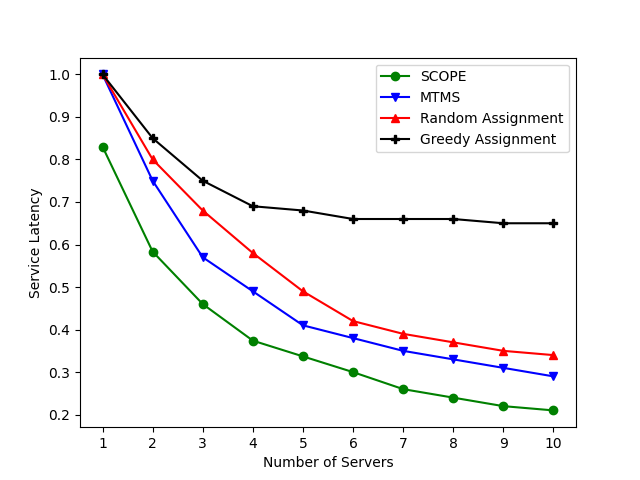
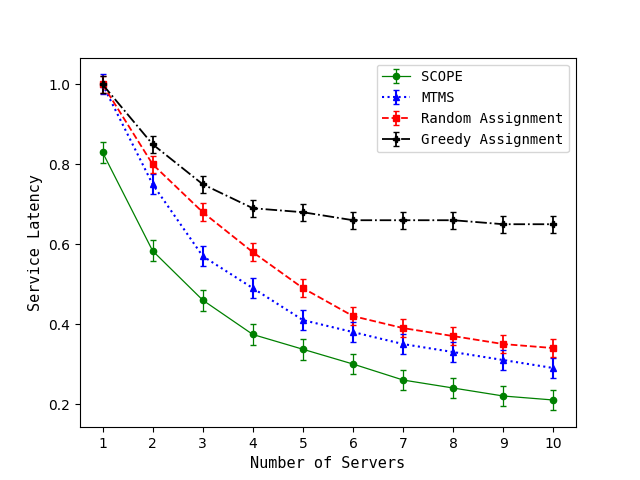
prepareDataSet(s) function added

diff --git a/dummygraph.py b/dummygraph.py
@@ -2,6 +2,30 @@ import matplotlib.pyplot as plt
 import numpy as np
 from matplotlib import font_manager
 
+x1 = []
+y1 = []
+y2 = []
+y3 = []
+y4 = []
+
+
+def prepareDataSet(s):
+    for line in open(s, 'r'):
+        lines = [i for i in line.split()]
+        x1.append(lines[0])
+        y1.append(float(lines[1]))
+        y2.append(float(lines[2]))
+        y3.append(float(lines[3]))
+        y4.append(float(lines[4]))
+
+
+def clearDataSet():
+    x1.clear()
+    y1.clear()
+    y2.clear()
+    y3.clear()
+    y4.clear()
+
 
 def subtaskVsLatency():
     x1 = []
@@ -114,47 +138,29 @@ def subtaskVsUtilCost():
 
 
 def serverVsLatency():
-    x1 = []
-    y1 = []
-    y2 = []
-    y3 = []
-    y4 = []
+    prepareDataSet('Data/serverlatency.txt')
 
-    for line in open('Data/serverlatency.txt', 'r'):
-        lines = [i for i in line.split()]
-        x1.append(lines[0])
-        y1.append(float(lines[1]))
-        y2.append(float(lines[2]))
-        y3.append(float(lines[3]))
-        y4.append(float(lines[4]))
+    plt.xlabel('Number of Servers', fontsize=11, fontname='monospace')
+    plt.ylabel('Service Latency', fontsize=11, fontname='monospace')
 
-    plt.xlabel('Number of Servers')
-    plt.ylabel('Service Latency')
+    plt.errorbar(x1, y4, color='g', label='SCOPE', yerr=0.026, marker='o', capsize=2, linestyle='solid', linewidth=0.9,
+                 markersize=4.5, fillstyle='full')
+    plt.errorbar(x1, y1, color='b', label='MTMS', yerr=0.025, marker='^', capsize=2, linestyle='dotted', linewidth=1.5,
+                 markersize=4.7, fillstyle='full')
+    plt.errorbar(x1, y2, color='r', label='Random Assignment', yerr=0.022, marker='s', capsize=2, linestyle='dashed',
+                 linewidth=1.3, markersize=4.7, fillstyle='full')
+    plt.errorbar(x1, y3, color='k', label='Greedy Assignment', yerr=0.021, marker='P', capsize=2, linestyle='dashdot',
+                 linewidth=1.3, markersize=4.7, fillstyle='full')
 
-    plt.plot(x1, y4, marker='o', c='g', label='SCOPE')
-    plt.plot(x1, y1, marker='v', c='b', label='MTMS')
-    plt.plot(x1, y2, marker='^', c='r', label='Random Assignment')
-    plt.plot(x1, y3, marker='P', c='k', label='Greedy Assignment')
-
-    plt.legend()
+    font = font_manager.FontProperties(family='monospace', weight='regular', style='normal', size=10)
+    plt.legend(prop=font)
     plt.savefig("Images/serverlatency.png")
     plt.show()
+    clearDataSet()
 
 
 def serverVsEnergy():
-    x1 = []
-    y1 = []
-    y2 = []
-    y3 = []
-    y4 = []
-
-    for line in open('Data/servervsenergy.txt', 'r'):
-        lines = [i for i in line.split()]
-        x1.append(lines[0])
-        y1.append(float(lines[1]))
-        y2.append(float(lines[2]))
-        y3.append(float(lines[3]))
-        y4.append(float(lines[4]))
+    prepareDataSet('Data/servervsenergy.txt')
 
     plt.xlabel('Number of Servers')
     plt.ylabel('Energy Consumption')
@@ -167,21 +173,11 @@ def serverVsEnergy():
     plt.legend()
     plt.savefig("Images/servervsenergy.png")
     plt.show()
+    clearDataSet()
 
 
 def serverVsUtilityPerUnitCost():
-    x1 = []
-    y1 = []
-    y2 = []
-    y3 = []
-    y4 = []
-    for line in open('Data/serverutilitypercost.txt', 'r'):
-        lines = [i for i in line.split()]
-        x1.append(lines[0])
-        y1.append(float(lines[1]))
-        y2.append(float(lines[2]))
-        y3.append(float(lines[3]))
-        y4.append(float(lines[4]))
+    prepareDataSet('Data/serverutilitypercost.txt')
 
     plt.xlabel('Number of Servers')
     plt.ylabel('Utility per Unit Cost')
@@ -194,22 +190,11 @@ def serverVsUtilityPerUnitCost():
     plt.legend()
     plt.savefig("Images/servervsutilcost")
     plt.show()
+    clearDataSet()
 
 
 def serverVsTaskDrop():
-    x1 = []
-    y1 = []
-    y2 = []
-    y3 = []
-    y4 = []
-
-    for line in open('Data/servervstaskdrop.txt', 'r'):
-        lines = [i for i in line.split()]
-        x1.append(lines[0])
-        y1.append(float(lines[1]))
-        y2.append(float(lines[2]))
-        y3.append(float(lines[3]))
-        y4.append(float(lines[4]))
+    prepareDataSet('Data/servervstaskdrop.txt')
 
     plt.xlabel('Number of Servers')
     plt.ylabel('Task Drop Rate')
@@ -222,21 +207,11 @@ def serverVsTaskDrop():
     plt.legend()
     plt.savefig("Images/servervstaskdrop.png")
     plt.show()
+    clearDataSet()
 
 
 def serverVsTaskDropBar():
-    x1 = []
-    y1 = []
-    y2 = []
-    y3 = []
-    y4 = []
-    for line in open('servervstaskdrop.txt', 'r'):
-        lines = [i for i in line.split()]
-        x1.append(lines[0])
-        y1.append(float(lines[1]))
-        y2.append(float(lines[2]))
-        y3.append(float(lines[3]))
-        y4.append(float(lines[4]))
+    prepareDataSet('Data/servervstaskdrop.txt')
 
     x = np.arange(len(x1))  # the label locations
     width = 0.24  # the width of the bars
@@ -260,21 +235,11 @@ def serverVsTaskDropBar():
     fig.tight_layout()
     plt.savefig("servervstaskdropbar.png")
     plt.show()
+    clearDataSet()
 
 
 def taskSizeVsLatency():
-    x1 = []
-    y1 = []
-    y2 = []
-    y3 = []
-    y4 = []
-    for line in open('Data/tasksizevslatency.txt', 'r'):
-        lines = [i for i in line.split()]
-        x1.append(float(lines[0]))
-        y1.append(float(lines[1]))
-        y2.append(float(lines[2]))
-        y3.append(float(lines[3]))
-        y4.append(float(lines[4]))
+    prepareDataSet('Data/tasksizevslatency.txt')
 
     plt.xlabel('Task Size', fontsize=11, fontname='monospace')
     plt.ylabel('Service Latency', fontsize=11, fontname='monospace')
@@ -287,21 +252,11 @@ def taskSizeVsLatency():
     plt.legend(prop=font)
     plt.savefig("Images/tasksizevslatency.png")
     plt.show()
+    clearDataSet()
 
 
 def taskSizeVsEnergy():
-    x1 = []
-    y1 = []
-    y2 = []
-    y3 = []
-    y4 = []
-    for line in open('Data/tasksizevsenergy.txt', 'r'):
-        lines = [i for i in line.split()]
-        x1.append(lines[0])
-        y1.append(float(lines[1]))
-        y2.append(float(lines[2]))
-        y3.append(float(lines[3]))
-        y4.append(float(lines[4]))
+    prepareDataSet('Data/tasksizevsenergy.txt')
 
     plt.xlabel('Task size', fontsize=11, fontname='monospace')
     plt.ylabel('Energy Consumption', fontsize=11, fontname='monospace')
@@ -319,21 +274,11 @@ def taskSizeVsEnergy():
     plt.legend(prop=font)
     plt.savefig("Images/tasksizevsenergy.png")
     plt.show()
+    clearDataSet()
 
 
 def taskSizeVsUtilityPerUnitCost():
-    x1 = []
-    y1 = []
-    y2 = []
-    y3 = []
-    y4 = []
-    for line in open('Data/tasksizevsutilitypercost.txt', 'r'):
-        lines = [i for i in line.split()]
-        x1.append(lines[0])
-        y1.append(float(lines[1]))
-        y2.append(float(lines[2]))
-        y3.append(float(lines[3]))
-        y4.append(float(lines[4]))
+    prepareDataSet('Data/tasksizevsutilitypercost.txt')
 
     plt.xlabel('Task size', fontsize=11, fontname='monospace')
     plt.ylabel('Utility per unit Cost', fontsize=11, fontname='monospace')
@@ -351,21 +296,11 @@ def taskSizeVsUtilityPerUnitCost():
     plt.legend(prop=font)
     plt.savefig("Images/tasksizevsutilitypercost.png")
     plt.show()
+    clearDataSet()
 
 
 def taskSizeVsTaskDrop():
-    x1 = []
-    y1 = []
-    y2 = []
-    y3 = []
-    y4 = []
-    for line in open('Data/tasksizevstaskdrop.txt', 'r'):
-        lines = [i for i in line.split()]
-        x1.append(lines[0])
-        y1.append(float(lines[1]))
-        y2.append(float(lines[2]))
-        y3.append(float(lines[3]))
-        y4.append(float(lines[4]))
+    prepareDataSet('Data/tasksizevstaskdrop.txt')
 
     plt.xlabel('Task size', fontsize=11, fontname='monospace')
     plt.ylabel('Task Drop Rate', fontsize=11, fontname='monospace')
@@ -377,27 +312,17 @@ def taskSizeVsTaskDrop():
     plt.errorbar(x1, y2, color='r', label='Random Assignment', yerr=0.3, marker='s', capsize=2, linestyle='dashed',
                  linewidth=1.3, markersize=4.8, fillstyle='full')
     plt.errorbar(x1, y3, color='k', label='Greedy Assignment', yerr=0.17, marker='P', capsize=2, linestyle='dashdot',
-                 linewidth=1.3, markersize=4.7, fillstyle='full')
+                 linewidth=1.3, markersize=4.8, fillstyle='full')
 
     font = font_manager.FontProperties(family='monospace', weight='regular', style='normal', size=10)
     plt.legend(prop=font)
     plt.savefig("Images/tasksizevstaskdrop.png")
     plt.show()
+    clearDataSet()
 
 
 def taskSizeVsTaskDropBar():
-    x1 = []
-    y1 = []
-    y2 = []
-    y3 = []
-    y4 = []
-    for line in open('tasksizevstaskdrop.txt', 'r'):
-        lines = [i for i in line.split()]
-        x1.append(lines[0])
-        y1.append(float(lines[1]))
-        y2.append(float(lines[2]))
-        y3.append(float(lines[3]))
-        y4.append(float(lines[4]))
+    prepareDataSet('Data/tasksizevstaskdrop.txt')
 
     x = np.arange(len(x1))  # the label locations
     width = 0.24  # the width of the bars
@@ -421,6 +346,7 @@ def taskSizeVsTaskDropBar():
     fig.tight_layout()
     plt.savefig("tasksizevstaskdropbar.png")
     plt.show()
+    clearDataSet()
 
 
 # subtaskVsLatency()
@@ -428,14 +354,14 @@ def taskSizeVsTaskDropBar():
 # subtaskVsUtilCost()
 # subtaskVsTaskDrop()
 
-# serverVsLatency()
-# serverVsEnergy()
-# serverVsUtilityPerUnitCost()
-# serverVsTaskDrop()
+serverVsLatency()
+serverVsEnergy()
+serverVsUtilityPerUnitCost()
+serverVsTaskDrop()
 # serverVsTaskDropBar()
 
 # taskSizeVsLatency()
 # taskSizeVsEnergy()
 # taskSizeVsUtilityPerUnitCost()
-taskSizeVsTaskDrop()
+# taskSizeVsTaskDrop()
 # taskSizeVsTaskDropBar()
